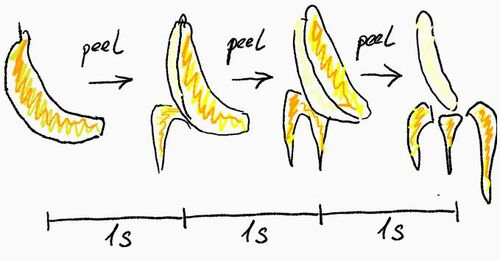
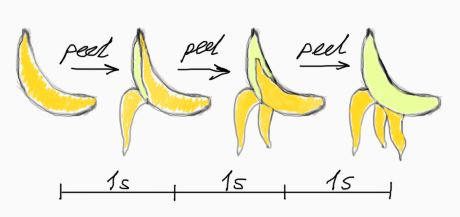
Finish concurrency introduction

diff --git a/content/dev/concurrency/introduction.md b/content/dev/concurrency/introduction.md
@@ -14,13 +14,19 @@ Concurrency has many aspects and we will discuss them in details, but first let'
 
 > The following examples are extremely simplified so that fundamental concepts of concurrency can be understood without delving into the depths of real CPU structure and operation.
 
+![Single Core CPU](single-core-cpu.jpg)
+
 First let's discuss how single-core CPU performs operations. Simply put, single-core central processor unit (CPU) performs instructions in an orderly fashion, one by one, in a row. It cannot execute two operations simultaneously, it will always execute them one by one.
 
-Imagine that you need to peel a banana. That takes removing three skins from it, so you remove them and the banana is peeled.
+Imagine that you need to peel a banana. This entails the following:
+
+- One banana has 3 skins on it
+- Peeling one skin takes 1 second
+- While peeling a banana, you cannot do anything else. You are using all your resources (two hands) to 100%
 
 ![Peeling single banana](single-banana.jpg)
 
-Now, imagine that you need to peel two bananas. You first peel the normal one, then the blue one. Both bananas are peeled. But you cannot peel them both at the same time: you only have two hands, and you need to use one hand to hold the banana, and another to peel it. You can only perform one operation at a time (`peel`) on one banana. Also let's imagine that peeling one skin takes 1 second.
+Now, imagine that you need to peel two bananas. First you peel the normal one, then the green one. Both bananas are peeled. But you cannot peel them both at the same time: you only have two hands, and you are using them to 100% already while peeling a banana (you need to use one hand to hold the banana, and another to peel it). You can only perform one operation at a time (`peel`) on one banana.
 
 ![Peeling two bananas](two-bananas.jpg)
 
@@ -29,42 +35,58 @@ That's what single-core processor does: it performs operations one at a time:
 - `peel` on normal banana (1s)
 - `peel` on normal banana (1s)
 - `peel` on normal banana (1s)
-- `peel` on blue banana (1s)
-- `peel` on blue banana (1s)
-- `peel` on blue banana (1s)
+- `peel` on green banana (1s)
+- `peel` on green banana (1s)
+- `peel` on green banana (1s)
 
-So, peeling one banana takes 3 seconds, peeling two bananas takes 6 seconds.
+And while doing this, the CPU is completely occupied. It uses 100% of it's own resources to peel bananas as fast as possible, and while it's peeling a banana - it's unable to do anything else. In fact, after peeling lots of bananas, the CPU becomes tired (hot) because it was working at 100% capacity for quite a bit of time, peeling banana after banana.
 
-Now, the person who asked us to peel the normal banana is happy. His banana has been peeled very fast, in mere 3 seconds! Now he can eat it. But the person who brought us the blue banana is angry. He was sitting there waiting for his banana to be peeled for 6 whole seconds. And what's worse, his banana hasn't even started to be peeled for 3 whole seconds! So from the point of view of the blue person - his request got frozen for 3 seconds and got picked up only after this time has elapsed.
+![Tired CPU](tired-cpu.jpg)
 
-Can we improve this situation? Yes. We can use **context switching**. This is basically what it says: let's constantly switch between context of peeling the normal banana, and the context of peeling the blue one. Instead of first peeling normal one, and then blue one, let's peel them like this:
+So, peeling one banana takes 3 seconds, peeling second banana takes another 3 seconds, totalling in 6 seconds.
+
+Now, the person who asked us to peel the normal banana is happy. His banana has been peeled very fast, in mere 3 seconds! Now he can eat it. But the person who brought us the green banana is angry. He was sitting there waiting for his banana to be peeled for 6 whole seconds. And what's worse, his banana hasn't even started to be peeled for 3 whole seconds! So from the point of view of the green person - his request got frozen for 3 seconds and got picked up only after this time has elapsed.
+
+Can we improve this situation? Yes. We can use **context switching**. This is basically what it says: let's constantly switch between context of peeling the normal banana, and the context of peeling the green one. Instead of first peeling normal one, and then green one, let's peel them like this:
 
 - `peel` normal banana (1s)
-- `peel` blue banana (1s)
+- `peel` green banana (1s)
 - `peel` normal banana (1s)
-- `peel` blue banana (1s)
+- `peel` green banana (1s)
 - `peel` normal banana (1s)
-- `peel` blue banana (1s)
+- `peel` green banana (1s)
 
 ![Banana context switching](banana-context-switching.jpg)
 
-Now, peeling both bananas still takes 6 seconds (actually 7, more on that below), but both normal and blue persons can see the progress of their bananas being peeled. Of course we are peeling the normal banana slower now.
+Now, peeling both bananas still takes 6 seconds, but both normal and green persons can see the progress of their bananas being peeled. Of course we are peeling the normal banana slower now.
 
-While peeling two bananas at the same time, we needed to put the first banana on the table, take the second one, peel it, put it back to the table and take the first one. All this putting and taking also takes time, so in total we spent 7 seconds instead of 6 just because we were constantly switching context. The lesson from this example is - context switching hurts performance.
+While peeling two bananas at the same time, we needed to put the first banana on the table, take the second one, peel it, put it back to the table and take the first one. All this putting and taking also takes time (shown by red arrows), so in total we spent 7 seconds instead of 6 just because we were constantly switching context. The lesson from this example is - context switching hurts performance.
 
-This is how operating system is working. How are you able to move your mouse cursor on the screen while a number of programs are running in the background at the same time? The answer is - **context switching**. Operating system is constantly switching context, so now it moved the mouse cursor by one pixel, now the first program wrote a piece of data into the memory, now the second program updated a piece of the screen, and now the mouse cursor moved again. Operating system always switches context between thousands of different processes and threads, so that we may enjoy the smooth flow. We don't want to wait for the program to finish so that our mouse cursor may move. We want to see it moving from the start. So operating system does a lot of things in parallel, while using the same single-core CPU that it has.
+This is how operating system is working. How are you able to move your mouse cursor on the screen while a number of programs are running in the background at the same time? The answer is - **context switching**. Operating system is constantly switching context, so now it moved the mouse cursor by one pixel, now the first program wrote a piece of data into the memory, now the second program updated a piece of the screen, and now the mouse cursor moved again. Operating system always switches context between thousands of different processes and threads, so that we may enjoy the smooth flow and every program can run in parallel with all others. We don't want to wait for the program to finish so that our mouse cursor may move. We want to see it moving from the start. So operating system does a lot of things in parallel, while using the same single-core CPU that it has.
 
-However, using context switching we were able to do more than one task in parallel. This completely qualifies as **concurrency**. But it is not **parallelism**.
+But how does the first person know that we finished peeling his banana? Every program needs to track its own execution. How can we do this, if CPU constantly switches between different processes? When OS schedules some job to the CPU (like peeling a green banana), it does so using an abstraction called **Thread**. Here we finally came to some important terminology: **Thread** (or OS Thread) is a logical unit of work that needs to be completed as a set of consecutive instructions on a CPU. OS provides and manages this abstraction for us, so we can schedule work on different threads and wait for them to finish. If we take the example above, we can say that:
+
+![Context switching on threads](context-switching-on-threads.jpg)
+
+- Peeling a yellow banana is happening on Thread 1
+- Peeling a green banana is happening on Thread 2
+- CPU is constantly switching between threads 1 and 2 to make it seem as if both threads were running in parallel with each other (peeling both bananas at the same time)
+
+> Actually, it's the OS that schedules instructions in such a way so different threads are running at the same time. CPU itself is only executing what was asked of it. So, OS asks CPU to peel a piece of yellow banana, then it asks CPU to put it down and to take a green one, and then it asks CPU to peel a piece of green one now.
+
+Using context switching we were able to do more than one task in parallel on a single-core CPU. This completely qualifies as **concurrency**. But it is not true **parallelism**.
 
 ### Peeling bananas on a multi-core CPU
 
 **Parallelism** - ability to execute multiple processes in parallel without context switching, i.e. truly in parallel.
 
-If we want to peel both bananas in parallel, we need a second person who can take the blue banana. We need a second CPU. If we have two persons (two CPUs), each person takes his own share of tasks and we can do them completely in parallel, without context switching.
+![Multi-core CPU](multi-core-cpu.jpg)
+
+If we want to peel both bananas in parallel, we need a second person who can take the green banana. We need a second CPU. If we have two persons (two CPUs), each person takes his own share of tasks and we can do them completely in parallel, without context switching.
 
 ![Parallel banana peeling](parallel-banana-peeling.jpg)
 
-Now peeling each banana takes 4 seconds, and peeling both bananas also takes 4 seconds! We cut the time by half, and we didn't even need to do any context switching! All we needed is another CPU (Person).
+Now peeling each banana takes 3 seconds, and peeling both bananas also takes 3 seconds! We cut the time by half, and we didn't even need to do any context switching! All we needed is another CPU (Person).
 
 Multi-core CPUs have multiple independent processing units which can do work completely independently from the other cores, behaving like another persons in this example.
 
@@ -72,27 +94,29 @@ This is the main feature of **parallelism**: true parallelism can be achieved on
 
 ### CPU-bound vs I/O bound
 
-Now what if apart from peeling one banana, we need to also pour a full glass of water, and it takes 3 seconds. We can do it like this:
+The work we saw previously was called **CPU-Bound**, because we needed the CPU in order for it to be executed. Peeling bananas is hard work. CPU should be working 100% on it and it cannot do anything else while it's peeling bananas, so we are using all CPU resources that we have, straining them to peel bananas for us as fast as possible.
 
-![Waiting for a glass of water](waiting-for-water.jpg)
+Now what if apart from peeling one banana, we also need to fill a bottle of water from a nearby sink, and it takes 3 seconds to do this. We can do it like this:
+
+![Waiting for a bottle of water](waiting-for-water.jpg)
 
 - peel a banana (1s)
 - peel a banana (1s)
 - peel a banana (1s)
-- place the glass under water (0.001s)
-- wait until the glass full (3s)
-- take the glass (0.001s)
+- place the bottle under water (0.001s)
+- wait until the bottle full (3s)
+- take the bottle (0.001s)
 
-Do you see a problem here? We are waiting for the whole 3 seconds just in vain. We took 6.002 seconds to peel a banana and fill a glass with water, when we could've peeled the banana **while** the water was pouring into the glass. Let's improve this using **context switching**:
+Do you see a problem here? We are waiting for the whole 3 seconds just in vain. We took 6.002 seconds to peel the banana and fill the bottle with water, when we could've peeled the banana **while** the water was pouring into the bottle. Let's improve this using **context switching**:
 
-![Glass of water with context switching](water-with-context-switching.jpg)
+![Bottle of water with context switching](water-with-context-switching.jpg)
 
-- place the glass under water (0.001s)
+- place the bottle under water (0.001s)
 - peel a banana (1s)
 - peel a banana (1s)
 - peel a banana (1s)
-- wait until the glass is full (already full, 0s)
-- take the glass (0.001s)
+- wait until the bottle is full (already full, 0s)
+- take the bottle (0.001s)
 
 Now we spent only 3.002 seconds, saving whole 3 seconds, using a single-core CPU (single Person).
 
@@ -100,7 +124,11 @@ This is a very important distinction:
 
 Peeling a banana is CPU-intensive work, it requires CPU (Person) to actively do stuff, the banana won't peel itself, the CPU (Person) should apply some effort to peel the banana. After peeling bananas for hours, Person (CPU) would be tired (overheated). It will use Person capacity to 100% (100% utilization of CPU). Person cannot do anything else while peeling the banana (CPU cannot do anything else while performing a CPU-intensive task). This is called **CPU-Bound work**, because we need the CPU to do it, and CPU is completely utilized to 100% while doing it.
 
-We don't need the CPU (Person) to pour the water into the glass, the water is being poured by the tap in the sink. It pours into the glass by itself, Person (CPU) doesn't do anything. Person (CPU) can either wait for the result (while not doing anything, and thus wasting it's time for nothing), or it can do important work in the meantime (peeling other bananas, CPU-bound work) while waiting for the glass to be filled. This is called **I/O Bound work**, because we do **NOT** need the CPU to do this work. This work is being done by **I/O (input/output)** devices, some other systems (like the tap in the sink in our example), and CPU just needs to check from time to time whether this other I/O device has finished its work or no. Actually, CPU is usually notified about the result of the I/O device, so that it can continue with processing the results of this work.
+We don't need the CPU (Person) to pour the water into the bottle, the water is being poured by the tap in the sink. It pours into the bottle **by itself**, Person (CPU) doesn't do anything. Person (CPU) can either wait for the result (while not doing anything, and thus wasting it's time for nothing), or it can do important work in the meantime (peeling other bananas, CPU-bound work) while waiting for the bottle to be filled. This is called **I/O Bound work**, because we do **NOT** need the CPU to do this work. This work is being done by **I/O (input/output)** devices, some other systems (like the tap in the sink in our example), and CPU just needs to check from time to time whether this other I/O device has finished its work or no. Actually, CPU is usually notified about the result of the I/O device, so that it can continue with processing the results of this work.
+
+So, in our example, the sink is the **I/O** device and CPU is not filling the water into the bottle, this device does all work.
+
+![Sink Is IO device](sink-is-io-device.jpg)
 
 Good real-world example of **CPU-bound** work would be:
 
@@ -109,7 +137,7 @@ Good real-world example of **CPU-bound** work would be:
 
 Good real-world example of **I/O-bound** work would be:
 
-- Reading the data from the database on another machine. CPU sends a command over the network, and then the other PC does all work and sends the data to this PC, and our CPU just waits for all the data to arrive through the network.
+- Reading the data from the database on another machine. CPU sends a command over the network, and then the other PC does all work and sends the data to our PC, and our CPU just waits for all the data to arrive through the network.
 
 #### CPU-bound work
 
@@ -125,12 +153,14 @@ Hence, here's an important conclusion: whenever you have CPU-bound work, you sho
 
 Now let's look at I/O bound work. We can make it faster by using context switching, because this work does not require CPU resources. Actually, even if we have 100 cores in our CPU, we can use just one with context switching, and it should be enough.
 
-Imagine we need to fill 10 glasses of water, and we have just one Person. The person would place all 10 glasses in the sink and let the water fill them, and while they're filling he'll even be able to rest or to do some other important work. We don't need the Person (CPU) to watch and wait while the glasses are filling.
+Imagine we need to fill 3 bottles of water, and we have just one Person. The person would place all 3 bottles in the sink and let the water fill them, and while they're filling he'll even be able to rest or to do some other important work. We don't need the Person (CPU) to watch and wait while the bottles are filling.
 
-However, the main question here is: how many glasses can our sink fill at the same time. What if we only have a very slow-running water streak coming from the tap? Then while one glass will be filled in 4 seconds, two glasses will be filled in 8 seconds, and three glasses will be filled in 12 seconds. In this situation, it may be preferable to fill the first glass first, and only then proceed with other ones.
+![Three bottles filling](three-bottles-filling.jpg)
 
-The real-world example of I/O-bound work is getting data from the database over the network. Let's imagine our network allows us to download data with the speed of 100 Mb/s. But the database can only give us data with the speed of 10 Mb/s. This means we can ask for as much as 10 parallel retrievals of data, but not more. If we ask for 20 retrievals of data, the database will give us 20 * 10 = 200 Mb/s of data, but we are able to download with the speed of only 100 Mb/s. We are going to be limited by our I/O channel (network in this example). We could have received the first 10 retrievals faster than we would if we request all 20 of them at the same time.
+However, the main question here is: how many bottles can our sink fill at the same time. What if we only have a very slow-running water streak coming from the tap? Then while one bottle will be filled in 4 seconds, two bottles will be filled in 8 seconds, and three bottles will be filled in 12 seconds. In this situation, it may be preferable to fill the first bottle first, and only then proceed with other ones.
 
-Hence, here's another important conclusion: whenever you have I/O-bound work, you need to consider your I/O channel limitations and plan accordigly. You can make 1000 parallel requests to the database and it won't hinder your CPU a bit, but you'll get your data much later than you would've gotten those first 10 requests had you requested just them. So think whether you need all the data at once, or you can request the data bit by bit utilizing your I/O speed to the maximum, and already use the first half of retrieved data while the second half is still loading.
+![One bottle is preferable](preferable-one-bottle.jpg)
 
-### WIP.
+The real-world example of I/O-bound work is getting data from the database over the network. Let's imagine our network allows us to download data with the speed of 100 Mb/s (the output of the sink tap). But one request to the database only works at the speed of 10 Mb/s (the neck of each bottle). This means we can ask for as much as 10 parallel retrievals of data (to fill 10 bottles at the same time), but not more. If we ask for 20 retrievals of data, the database will give us 20 * 10 = 200 Mb/s of data, but we are able to download with the speed of only 100 Mb/s (not enough water from the sink tap). We are going to be limited by our I/O channel (network in this example). We could have received the first 10 retrievals twice faster than we would if we request all 20 of them at the same time and wait for all of them to complete.
+
+Hence, here's another important conclusion: whenever you have I/O-bound work, you need to carefully consider your I/O channel limitations and plan accordigly. You can make 1000 parallel requests to the database and it won't hinder your CPU a bit, it can even peel some bananas in the meantime, but you'll get your data much later than you would've gotten those first 10 requests had you requested just them. So think whether you need all the data at once, or you can request the data bit by bit utilizing your I/O speed to the maximum, and already use the first half of retrieved data while the second half is still loading.
